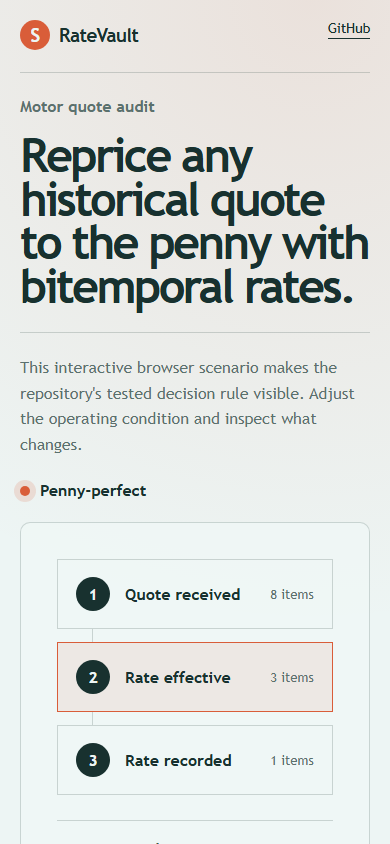
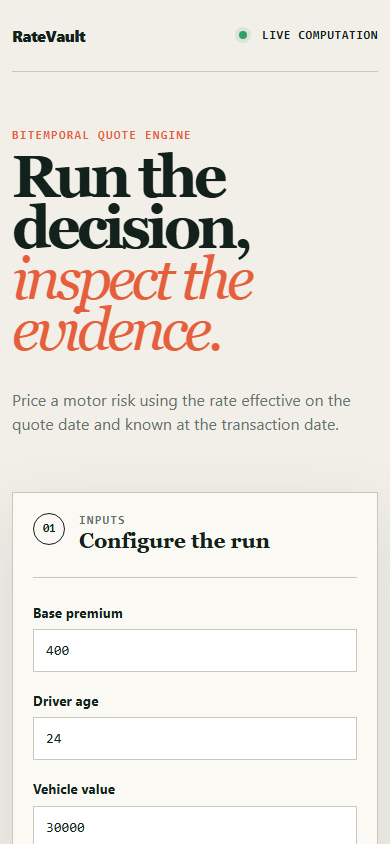
docs: show working deployed application

diff --git a/README.md b/README.md
@@ -6,9 +6,9 @@
 
 [![CI and deployment](https://github.com/SlateGitOrg/ratevault/actions/workflows/ci.yml/badge.svg?branch=main)](https://github.com/SlateGitOrg/ratevault/actions/workflows/ci.yml)
 
-[Open the interactive RateVault demo](https://slategitorg.github.io/ratevault/)
+[Open the working RateVault application](https://slategitorg.github.io/ratevault/)
 
-The deployed interface uses a deterministic offline scenario to make the repository's tested decision rule visible without external services or private data.
+This deployed application runs the project's decision workflow in the browser. Change the inputs, run the analysis, and inspect the computed metrics and decision trace.
 
 ### Desktop
 
